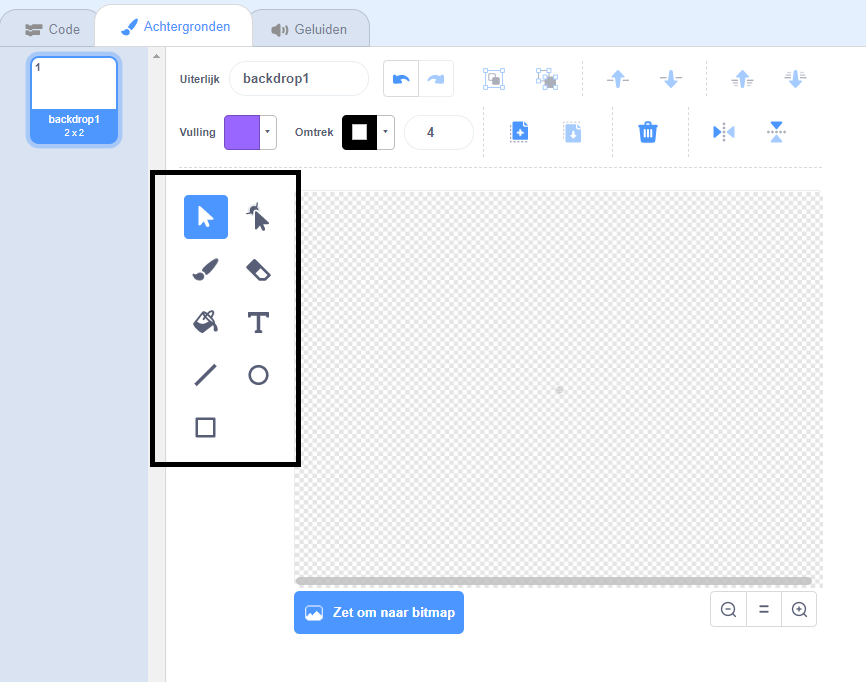
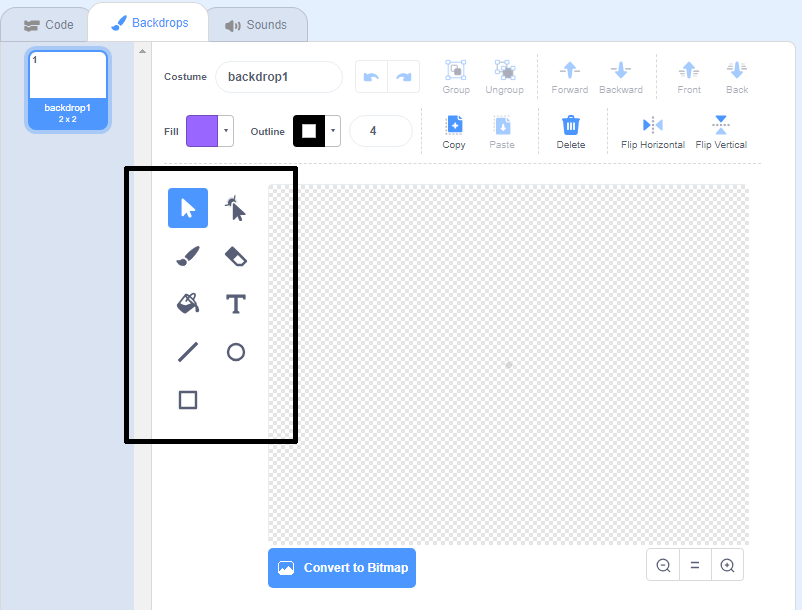
Add updates
Dutch

diff --git a/nl-NL/step_1.md b/nl-NL/step_1.md
@@ -2,7 +2,7 @@
 
 ![teken nieuwe achtergrond](images/paint_backdrop_icon.png)
 
-+ Gebruik de tekenhulpmiddelen op het tabblad **Achtergronden** om je achtergrond te tekenen.
++ Use the drawing tools in the **Backdrops** tab to paint your backdrop.
 
 ![tekenhulpmiddelen](images/paint_tools_annotated.png)
 
